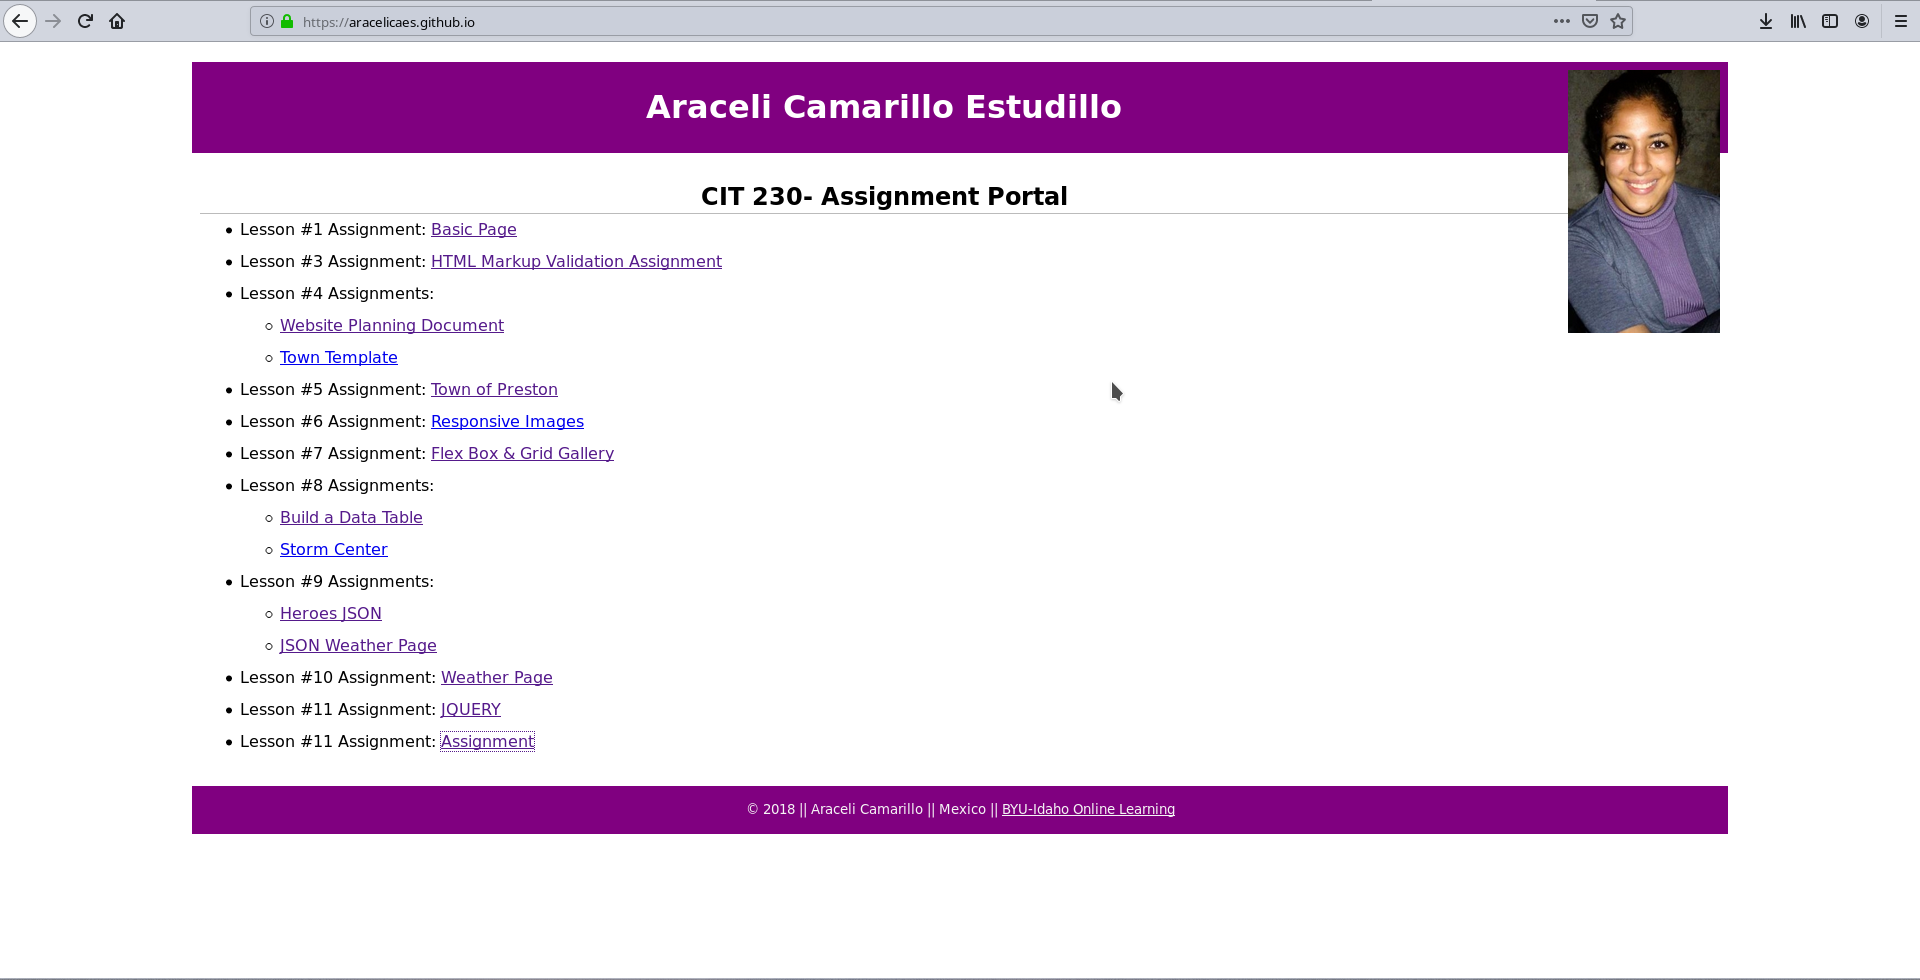
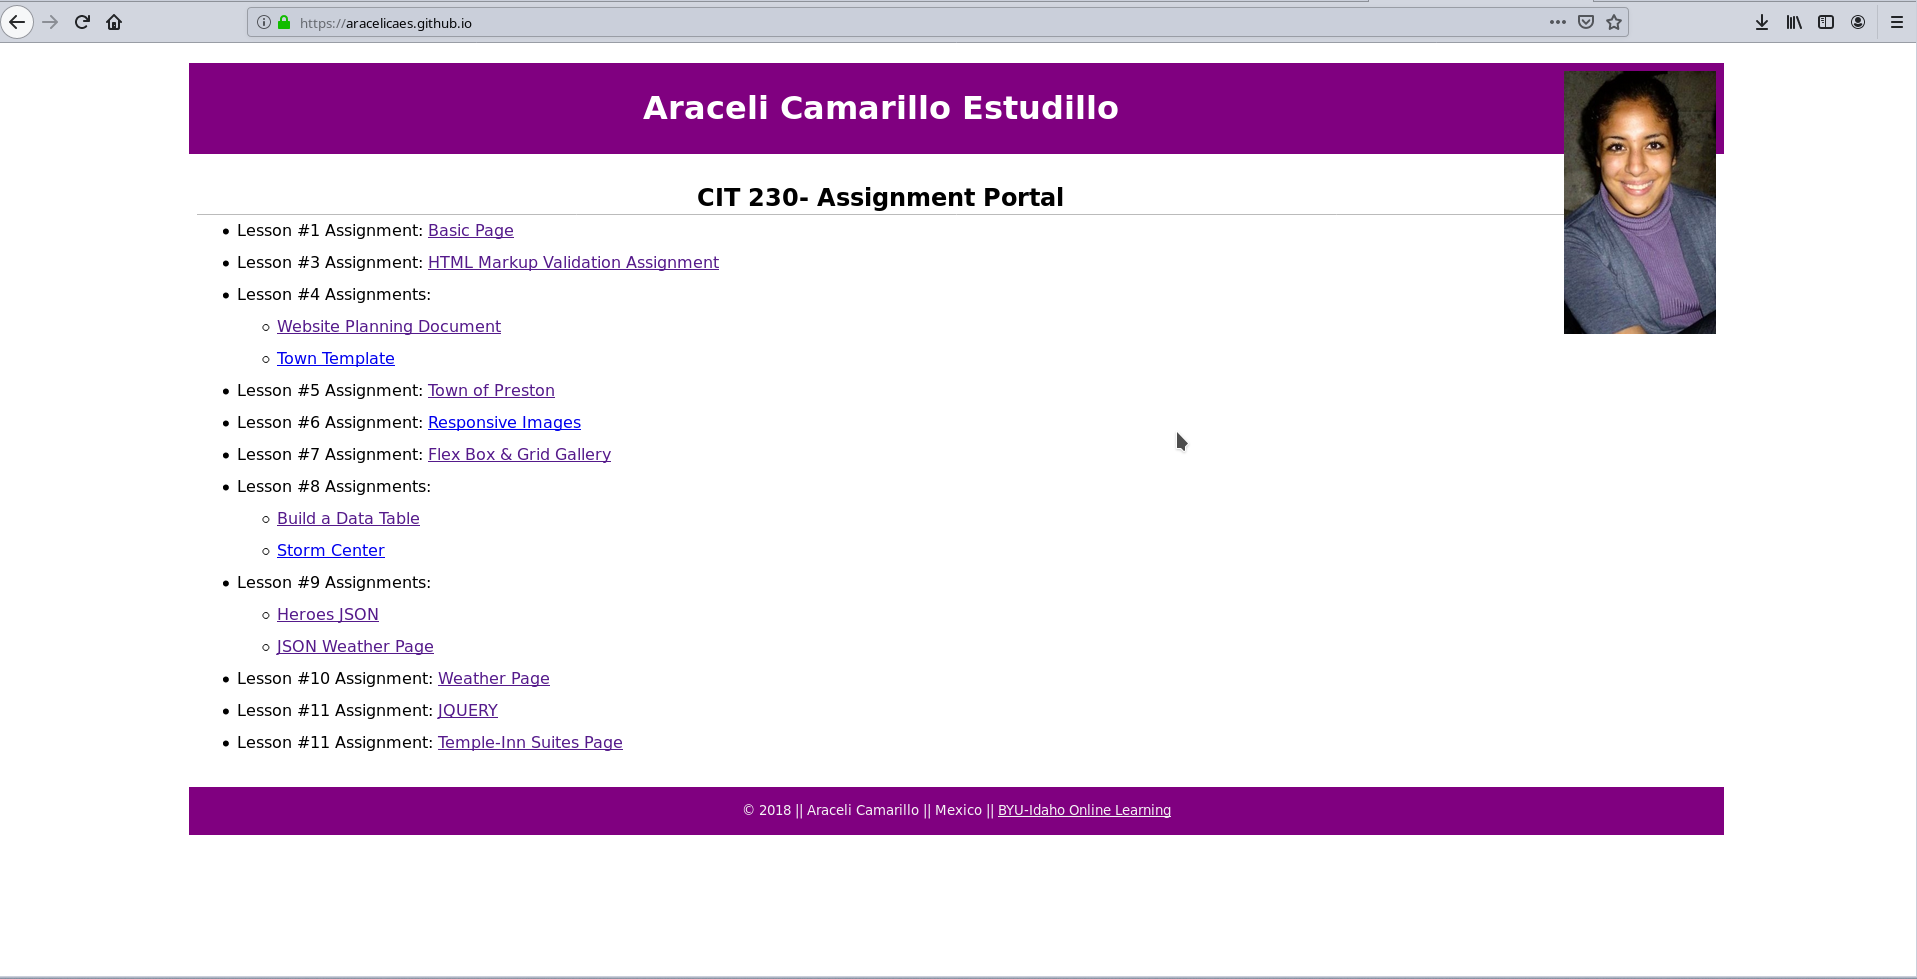
Created ReadME content

diff --git a/README.md b/README.md
@@ -1,2 +1,67 @@
+<!-- PROJECT LOGO -->
 # aracelicaes.github.io
-This is my CIT 230 project site
+My CIT 230 Assignments Page for Brigham Young University-Idaho
+<div align= "center"><img src= "images/cit230assignments.png"></div>
+<!-- TABLE OF CONTENTS -->
+## Table of Contents
+- [aracelicaes.github.io](#aracelicaesgithubio)
+  - [Table of Contents](#table-of-contents)
+  - [About The Project:](#about-the-project)
+  - [Features:](#features)
+- [The Weather Page](#the-weather-page)
+  - [Built With](#built-with)
+  - [About this Project](#about-this-project)
+- [Temple Inn Suites](#temple-inn-suites)
+  - [Built With](#built-with-1)
+  - [About this Project](#about-this-project-1)
+- [Contact](#contact)
+- [Acknowledgements](#acknowledgements)
+<!-- ABOUT THE PROJECT -->
+
+## About The Project:
+This is page was built to display the different projects developed during my CIT 230 Class at BYU-I. You will find:
+*The Website Planning Document
+*Practice Exercises
+*Progressive Building of a Weather Site
+*The final Weather Page
+*Temple-Inn Suites: a site built and designed from scratch. 
+
+## Features:
+
+<!-- GETTING STARTED -->
+# The Weather Page
+<div align= "left"><img src="images/weatherpage.png"></div>
+
+## Built With
+* HTML
+* Vanilla CSS
+* Javascript
+* API from [OpenWeatherMap](https://openweathermap.org/)
+
+## About this Project
+The requirements of this project were to build the design and our content of the Site using HTML and CSS. Javascript was used to integrate the AIP from OpenWeatherMap. It was also used to facilitate other features such as the hamburguer menu on the small/mobile view of the page.<br>
+CSS Grids, Flexbox were used for the display.
+
+# Temple Inn Suites
+<div align= "left"><img src="images/temple-inn-suites.png"></div>
+
+## Built With
+* HTML
+* Vanilla CSS
+* Javascript
+
+## About this Project
+The requirements of this project were to build the design and our content of the Site using HTML and CSS. Javascript was used to facilitate features such as the hamburguer menu on the small/mobile view of the page.<br>
+CSS Grids, Flexbox were used for the display.
+
+<!-- CONTACT -->
+# Contact
+* Ara Camarillo [aracelicaes](https://github.com/aracelicaes)
+* Project Link: [Live View Here](https://aracelicaes.github.io/)
+<!-- ACKNOWLEDGEMENTS -->
+# Acknowledgements
+- [BYU-Idaho](https://www.byui.edu/online)
+- [OpenWeatherMap](https://openweathermap.org/)
+- [othneildrew](https://github.com/othneildrew) => [Best-README-Template](https://github.com/othneildrew/Best-README-Template)
+- [Microverse](https://www.microverse.org/) **On Updated Features
+
